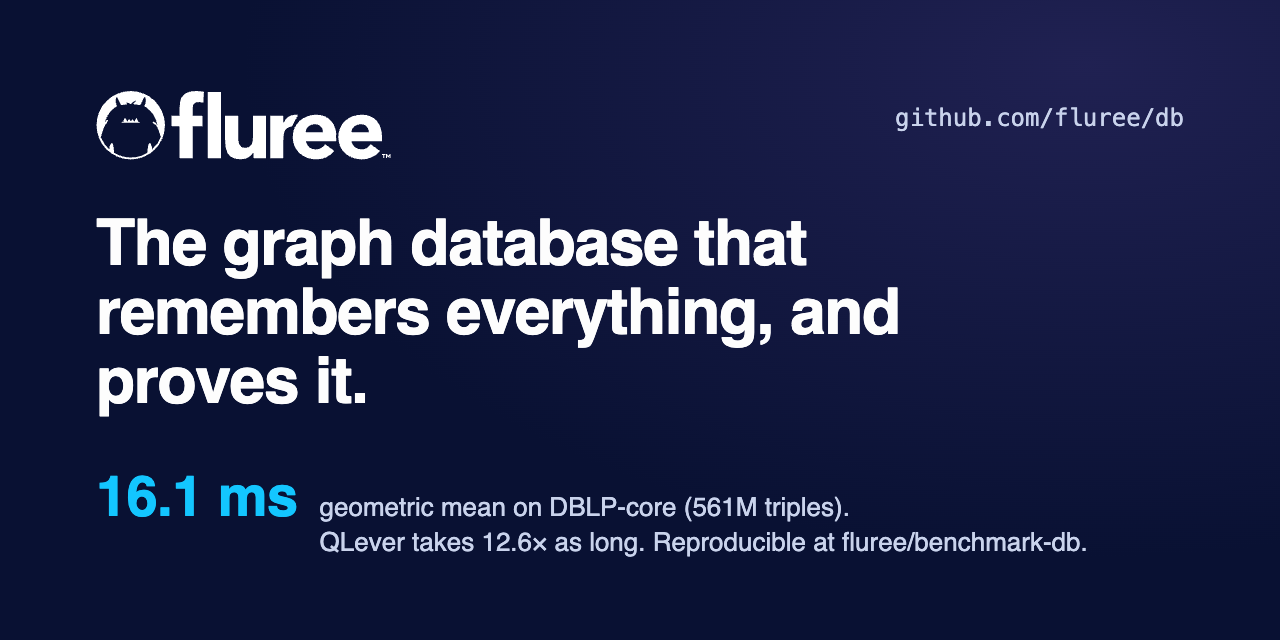
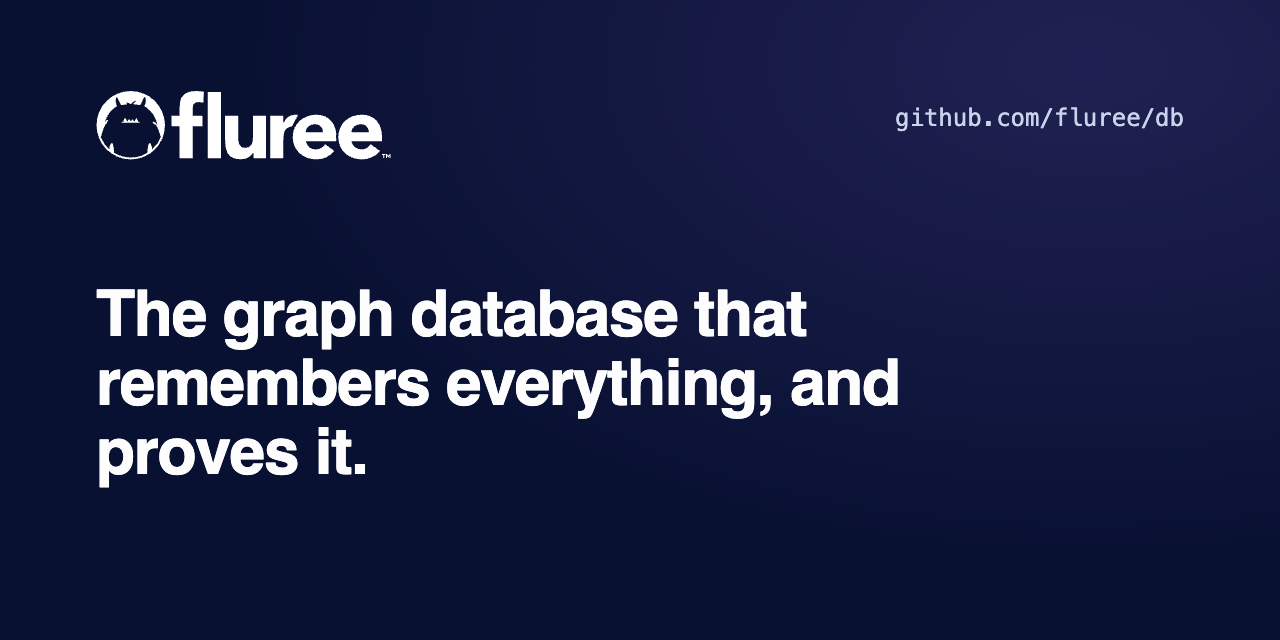
docs(readme): drop benchmark stat from social preview

Changed region(s): [[0.0625, 0.3438, 0.8438, 0.875]]

diff --git a/docs/assets/readme/social-preview.html b/docs/assets/readme/social-preview.html
@@ -5,7 +5,6 @@
     "/Applications/Google Chrome.app/Contents/MacOS/Google Chrome" --headless=new --hide-scrollbars \
       --window-size=1280,640 --screenshot=docs/assets/readme/social-preview.png \
       "file://$PWD/docs/assets/readme/social-preview.html"
-  The benchmark figure must match the README's generated BENCH block.
 -->
 <html lang="en">
 <head>
@@ -17,14 +16,11 @@
     background: radial-gradient(120% 140% at 85% 10%, #202152 0%, #091133 55%);
     color: #FDFDFD;
     font-family: -apple-system, "SF Pro Display", "Segoe UI", Roboto, Helvetica, Arial, sans-serif;
-    display: flex; flex-direction: column; justify-content: space-between;
+    display: flex; flex-direction: column; justify-content: flex-start; gap: 120px;
     box-sizing: border-box; padding: 88px 96px 80px;
   }
   .logo { height: 72px; width: auto; align-self: flex-start; }
   h1 { font-size: 64px; line-height: 1.08; font-weight: 700; letter-spacing: -0.02em; margin: 0; max-width: 1000px; }
-  .stat { display: flex; align-items: baseline; gap: 22px; }
-  .num { font-size: 56px; font-weight: 700; color: #13C6FF; letter-spacing: -0.01em; }
-  .label { font-size: 26px; line-height: 1.35; color: #C9D3EC; }
   .repo { position: absolute; right: 96px; top: 104px; font-size: 24px; color: #C9D3EC; font-family: ui-monospace, Menlo, monospace; }
 </style>
 </head>
@@ -32,9 +28,5 @@
   <img class="logo" src="fluree-wordmark-dark.svg" alt="Fluree">
   <div class="repo">github.com/fluree/db</div>
   <h1>The graph database that remembers everything, and proves it.</h1>
-  <div class="stat">
-    <span class="num">16.1 ms</span>
-    <span class="label">geometric mean on DBLP-core (561M triples).<br>QLever takes 12.6&times; as long. Reproducible at fluree/benchmark-db.</span>
-  </div>
 </body>
 </html>
